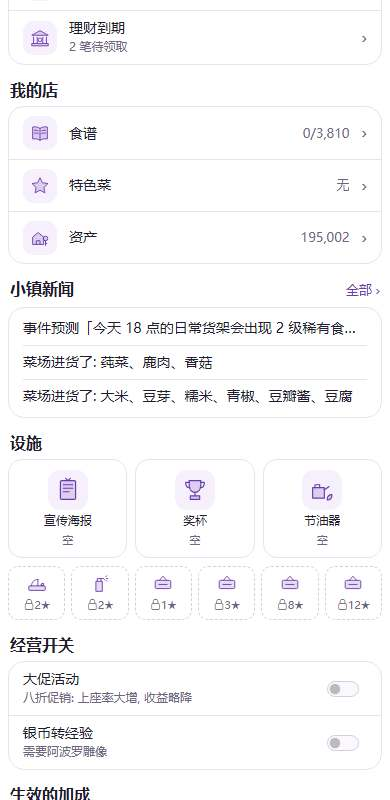
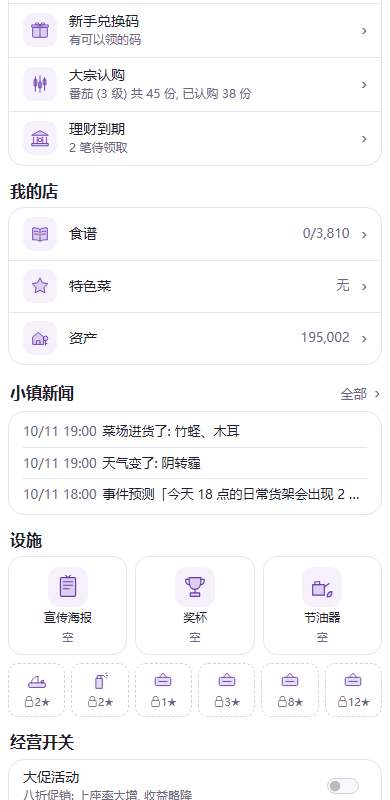
docs: P5 第二轮返工的截图和说明

diff --git a/docs/design/改版-P5/README.md b/docs/design/改版-P5/README.md
@@ -27,7 +27,9 @@
 
 用户看过第一版指出：今日块整句加粗、交易所那几行图标文字链接混在一起、“我的店”的“收购”还是右侧文字链接、下面几块完全没改。返工后：
 
-- 今日 2×2 每块一个短标题（签到、主线 / 领主线奖励、今日活跃、新手兑换码），细节写在灰色副行。
+- 今日待办（第二轮返工，按最初定的设计）：一张卡片一行一件事——签到右边是紫色胶囊按钮，主线、今日活跃能领时右边一个“可领奖”标签，其余整行去对应页面；第一轮的 2×2 大块去掉了。
+- 链接（第二轮返工，设计 §2.6）：去别处的文字链接改成紫字加点状下划线、后面不加 ›；区块标题整行可点（右边灰字和 ›），取代“全部 ›”“收益记录 ›”；楼层餐桌是一行；切换区服是头图上的小胶囊。
+- 小镇新闻和餐厅动态是同一种只读行：时间 + 文字（新闻原来没有时间）；动态在卡片里不再多画一道虚线。
 - 活动、交易所（大宗认购）、白食、理财到期、我的店、经营开关都用同一种行：左边图标托盘，标题和灰色副行，右边值或开关，整行可点时右边一个 ›。资产整行去收购，右边写资产数。
 - 餐厅动态、小镇新闻、设施、经营开关、生效的加成都改成卡片外的区块标题。
 - 设施：开了的位置一格一个；没开的收成一排小格子（图形 + “12★”），整页从 1869px 缩到 1718px。
